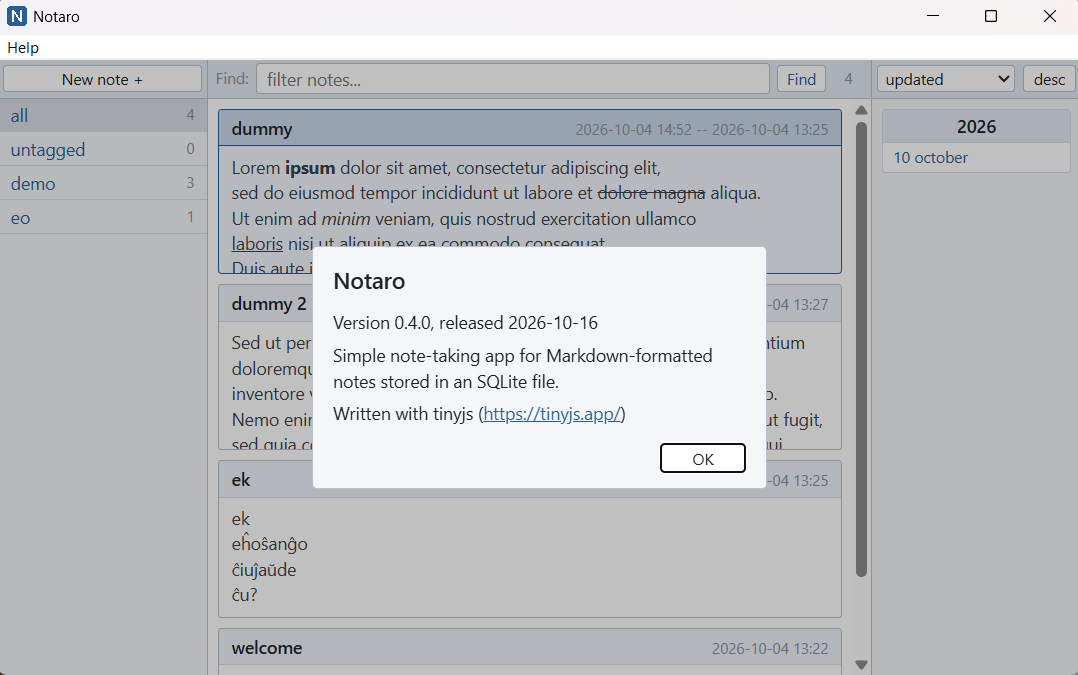
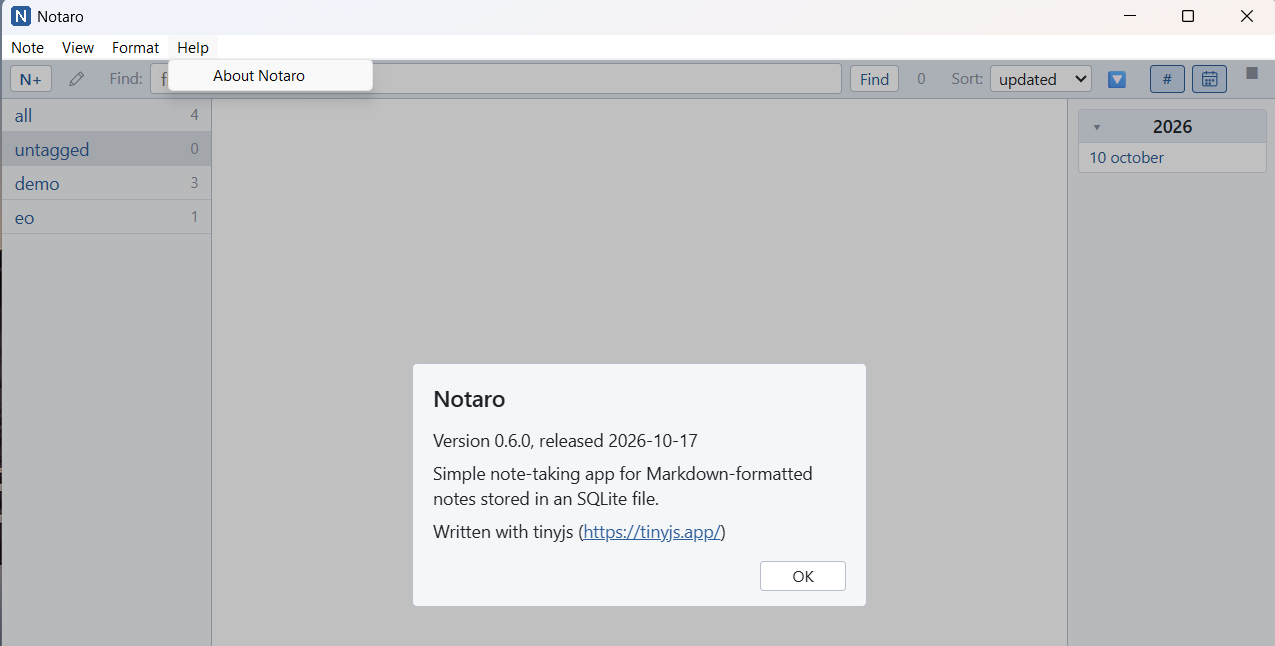
update docs for v 0.6.0

diff --git a/README.md b/README.md
@@ -27,6 +27,9 @@ Currently implemented:
 Main screen:
 ![main screen](./docs/main_screen.png)
 
+Edit note:
+![main screen](./docs/main_screen.png)
+
 Filtering:
 ![filtering](./docs/filtering.png)
 
